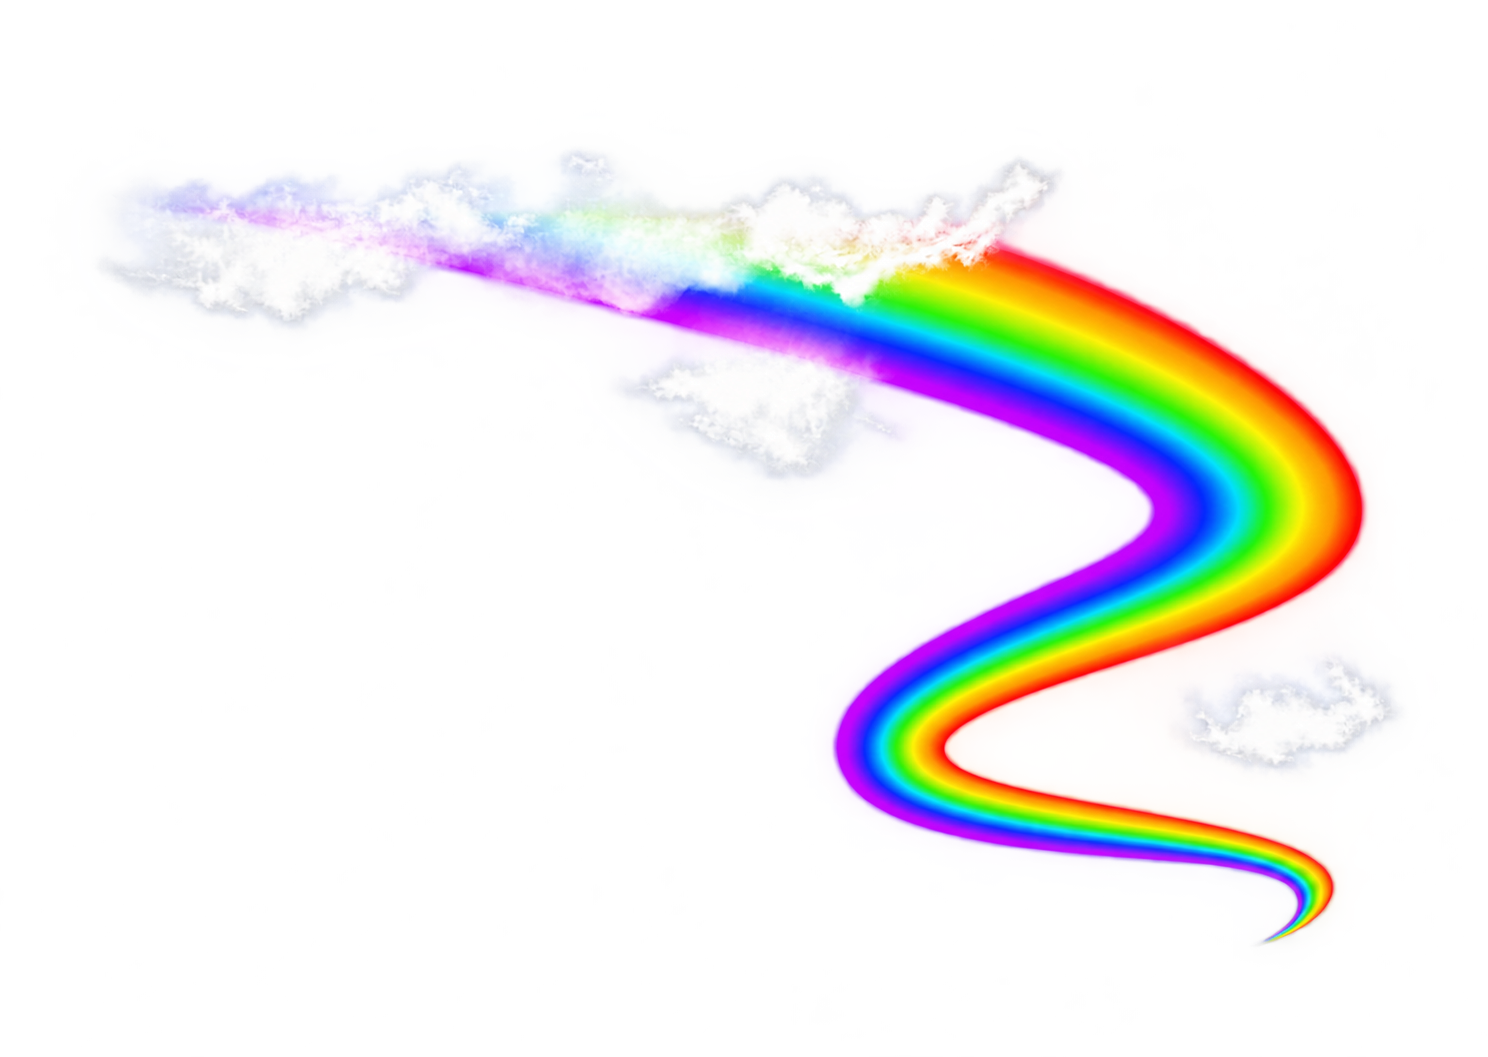
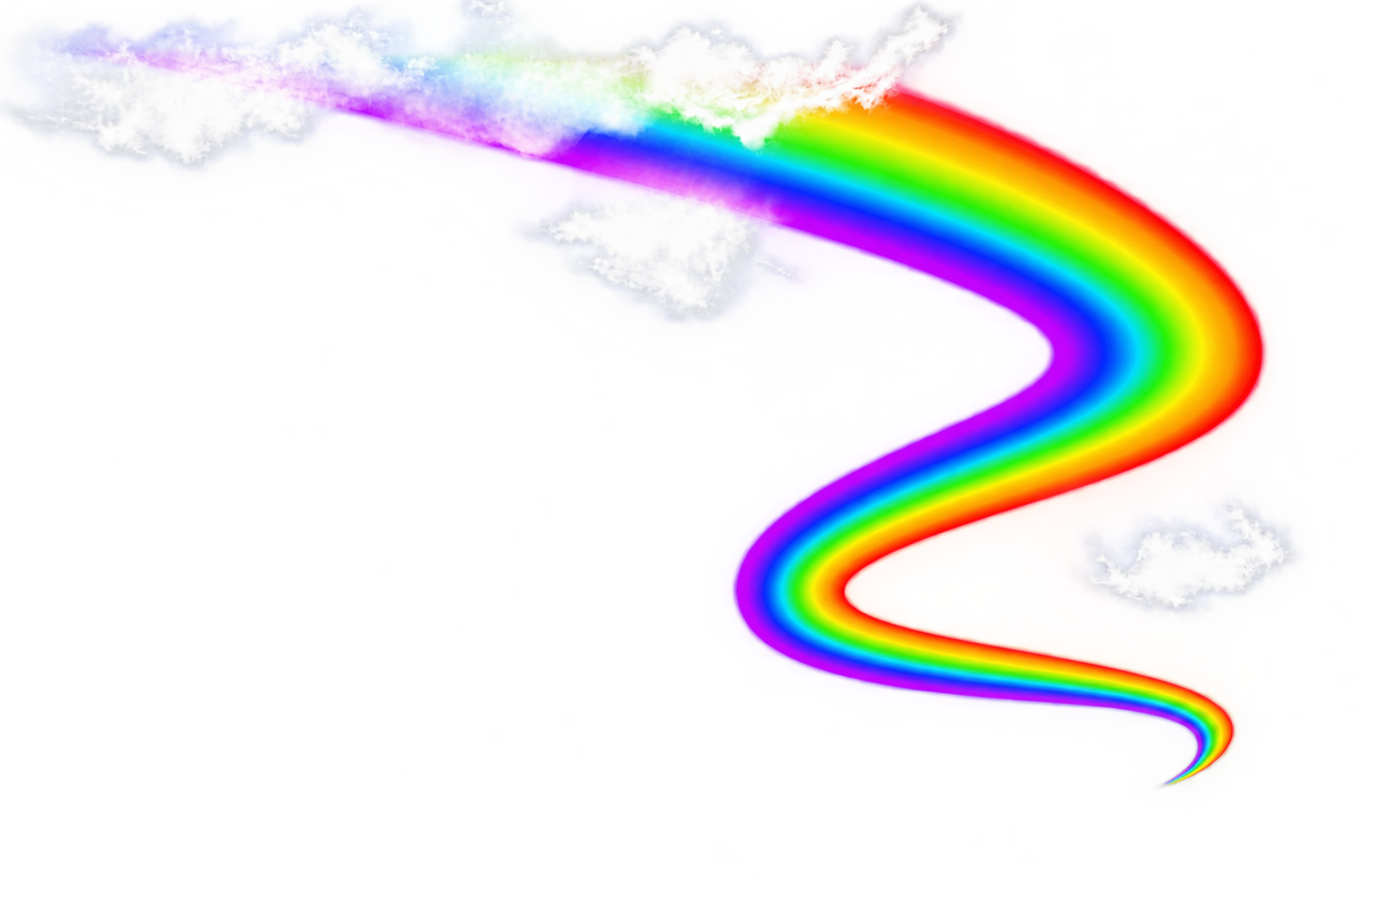
Cropped the rainbow image so the rainbow starts at the top of the sectin

Changed region(s): [[0.0, 0.0, 0.9604, 0.9022], [0.8365, 0.6533, 0.8674, 0.6844], [0.8055, 0.6844, 0.8365, 0.7156]]

diff --git a/assets/css/style.css b/assets/css/style.css
@@ -269,15 +269,15 @@ font-size: 120%;
 #content {
     position: relative;
     isolation: isolate;
-    overflow: hidden;
 }
 
 #content::before {
     content: '';
     position: absolute;
-    inset: 2rem 0 0;
+    inset: 0;
     z-index: -1;
     background: url('../images/rainbow-background.png') center / cover no-repeat;
+    pointer-events: none;
     opacity: 0.7;
 
 }
